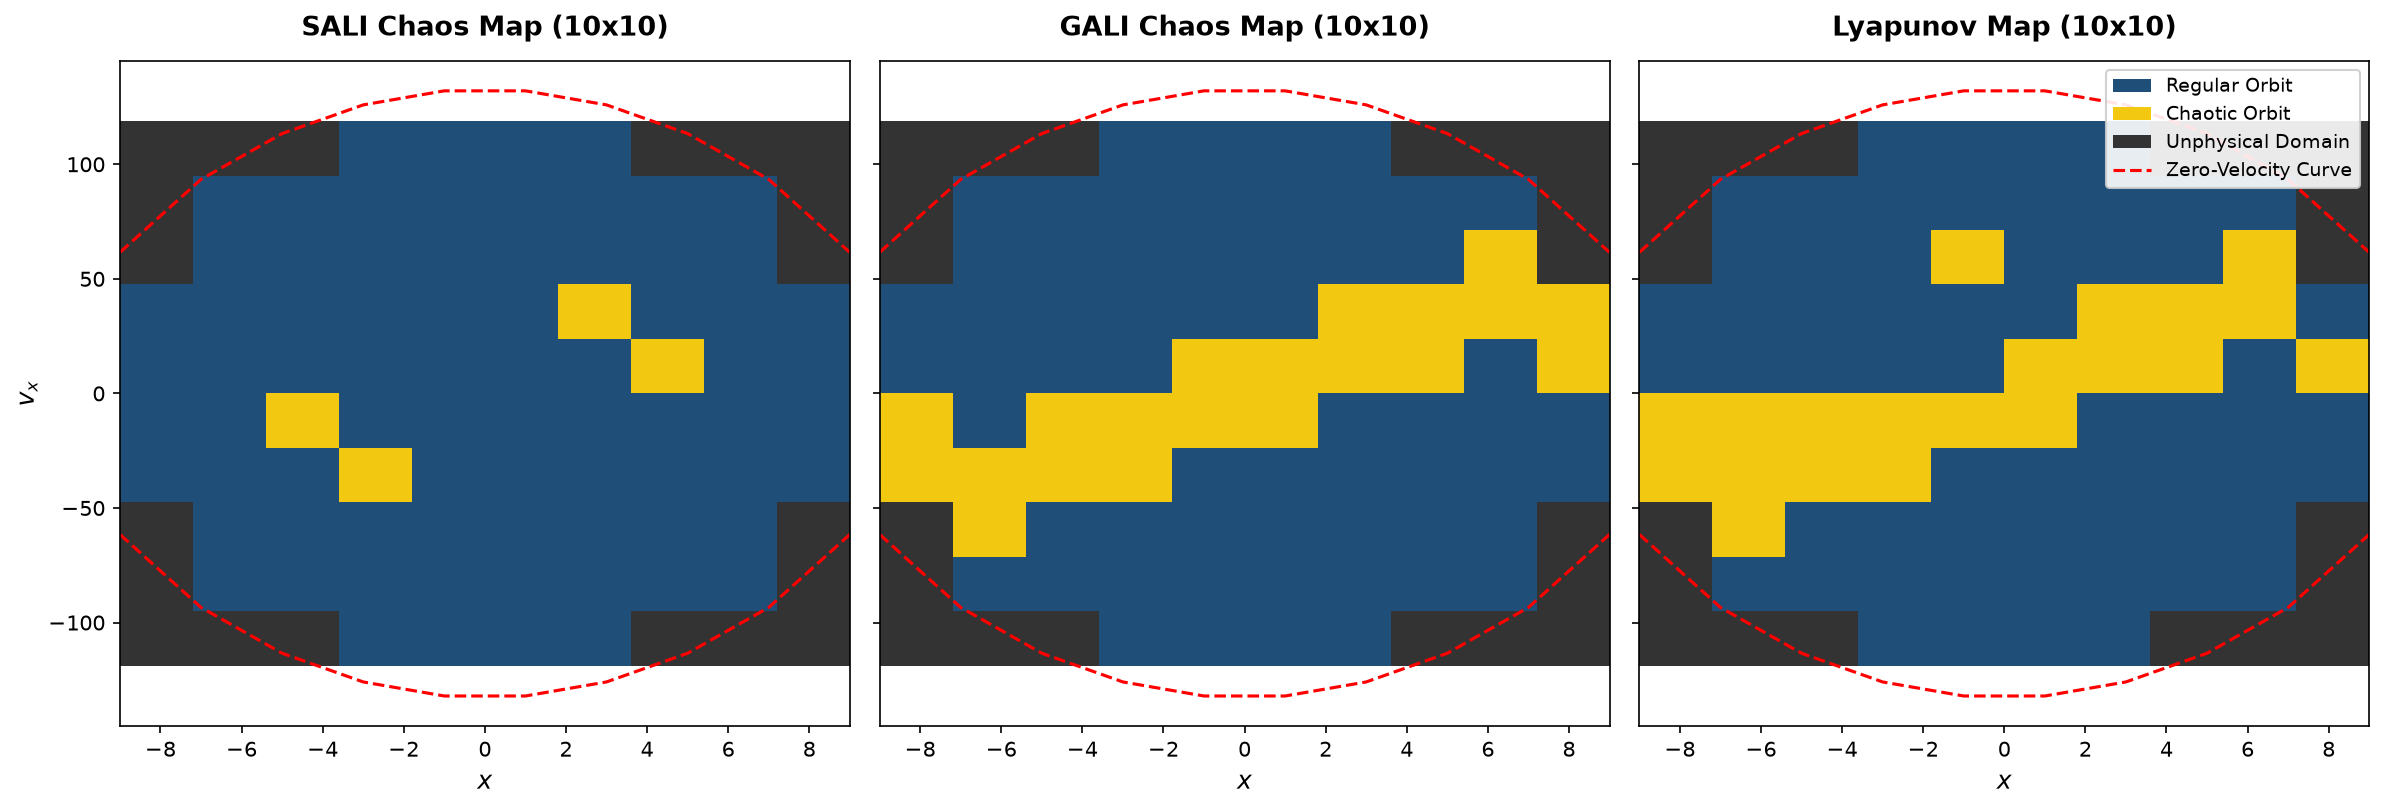
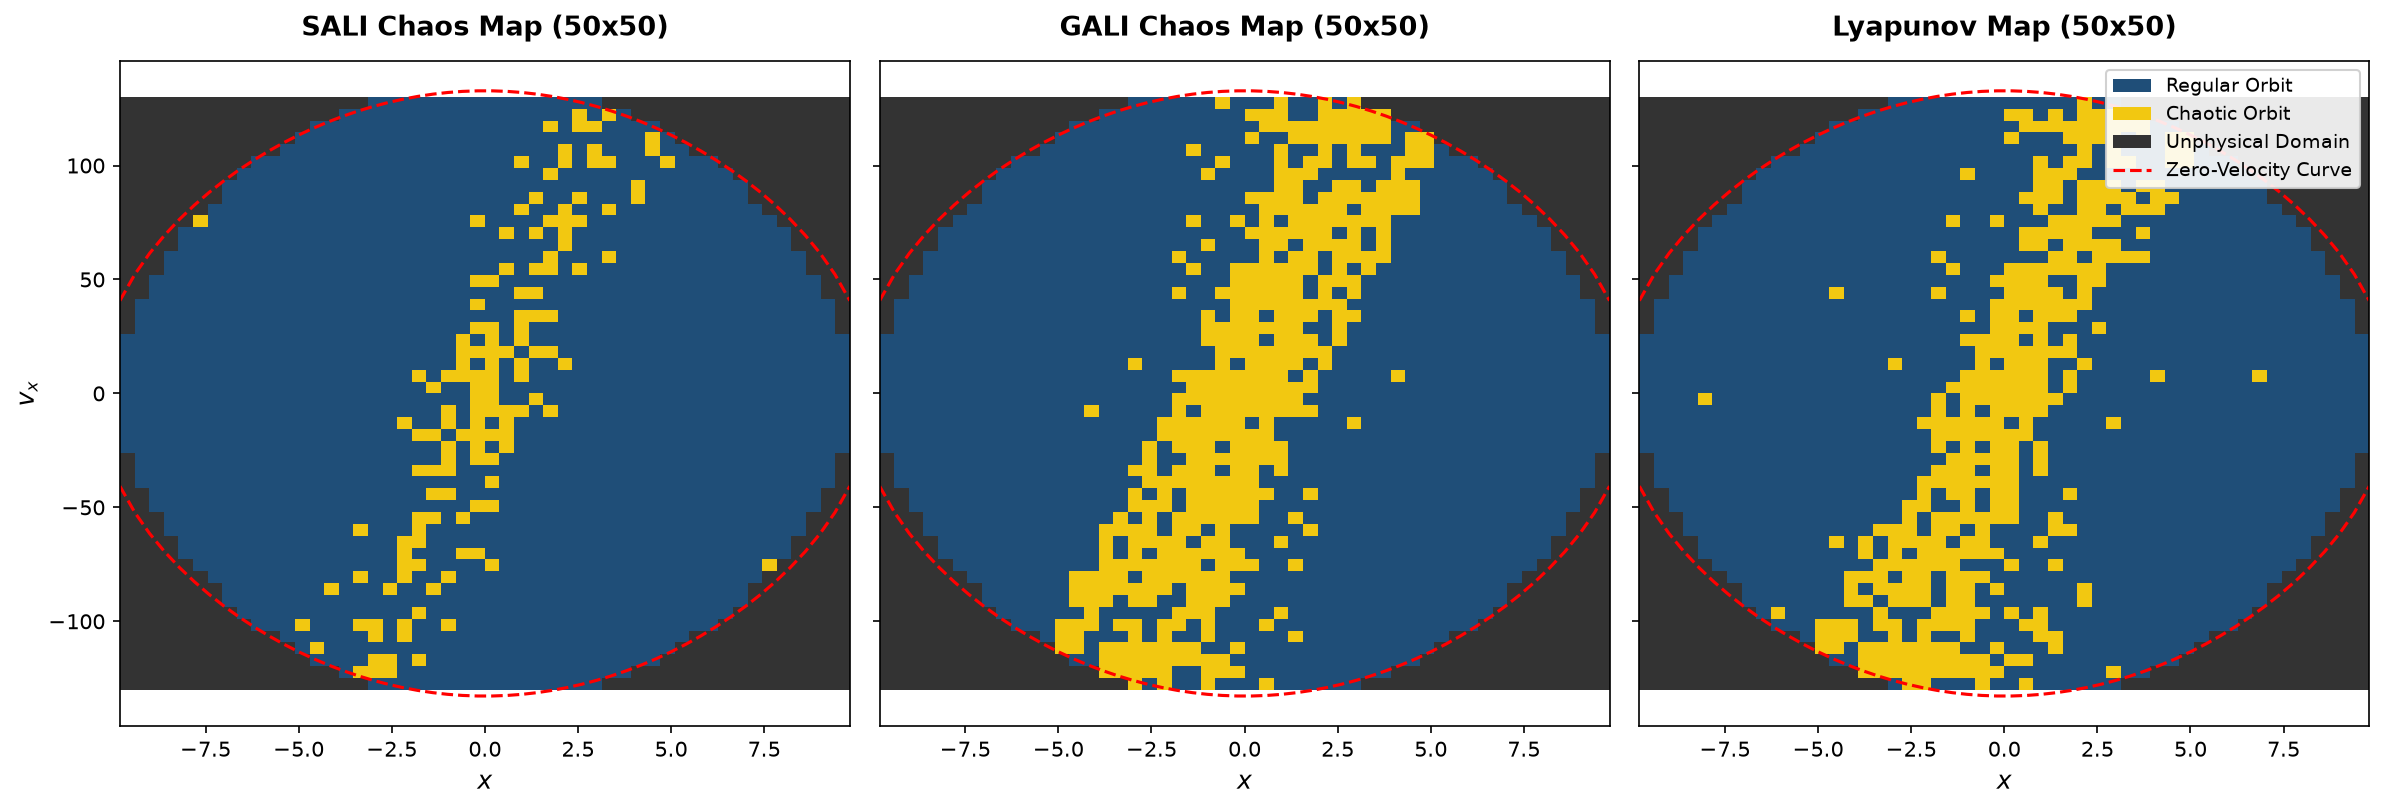
Minor Update + lyap_check nan fix

diff --git a/src/ocd_gd/orbit_detector.py b/src/ocd_gd/orbit_detector.py
@@ -365,7 +365,9 @@ class OrbitChaosDetector(_OrbitPlottingMixin):
 
         lyap_array = self._lyap[:, 0]
         lyap_time = self._lyap[:, 1]
-        lyap_check = np.where(lyap_array <= 0.1, 0, 1)
+        is_nan = np.isnan(lyap_array)
+        lyap_check = np.where(lyap_array <= 0.1, 0, 1).astype(float)
+        lyap_check[is_nan] = np.nan
 
         if orbit_idx is not None:
             gali_c = gali_check[orbit_idx]
@@ -390,7 +392,14 @@ class OrbitChaosDetector(_OrbitPlottingMixin):
             sali_d = self.sali_array
             lyap_d = lyap_array
 
-        summary_data = ChaosSummary(gali_c, gali_t, sali_c, sali_t, lyap_c, lyap_t)
+        total_chaotic = {
+            "sali": int(np.asarray(sali_c).sum()),
+            "gali": int(np.asarray(gali_c).sum()),
+            "lyapunov": int(np.nan_to_num(lyap_c, nan=0.0).sum()),
+        }
+        summary_data = ChaosSummary(
+            gali_c, gali_t, sali_c, sali_t, lyap_c, lyap_t, total_chaotic
+        )
         if check_only:
             return summary_data
 

diff --git a/scripts/generating_CM.py b/scripts/generating_CM.py
@@ -25,7 +25,7 @@ E_0 = pot.potential(pos_ref)[0] + 0.5 * v_circ**2
 detector = GridChaosDetector(
     potential=pot,
     E_0=E_0,
-    grid_size=10,
+    grid_size=5,
     y_0=10.0,
     z_0=10.0,
     v_y0=0.6 * v_circ,
@@ -37,6 +37,4 @@ detector = GridChaosDetector(
 
 # # Render composite RGB overlay map
 detector.plot_composite_chaos_map(save_path="composite_chaos_map.png")
-
-# detector.plot_dashboard(4)
-# detector.plot_chaos_map(save_path="chaos_grid_maps.png")
+detector.plot_chaos_map(save_path="chaos_grid_maps.png")

diff --git a/src/ocd_gd/_types.py b/src/ocd_gd/_types.py
@@ -29,6 +29,7 @@ class ChaosSummary(NamedTuple):
     sali_time: np.ndarray
     lyapunov_check: np.ndarray
     lyapunov_time: np.ndarray
+    total_chaotic: dict
 
 
 class ChaosFullReport(NamedTuple):
